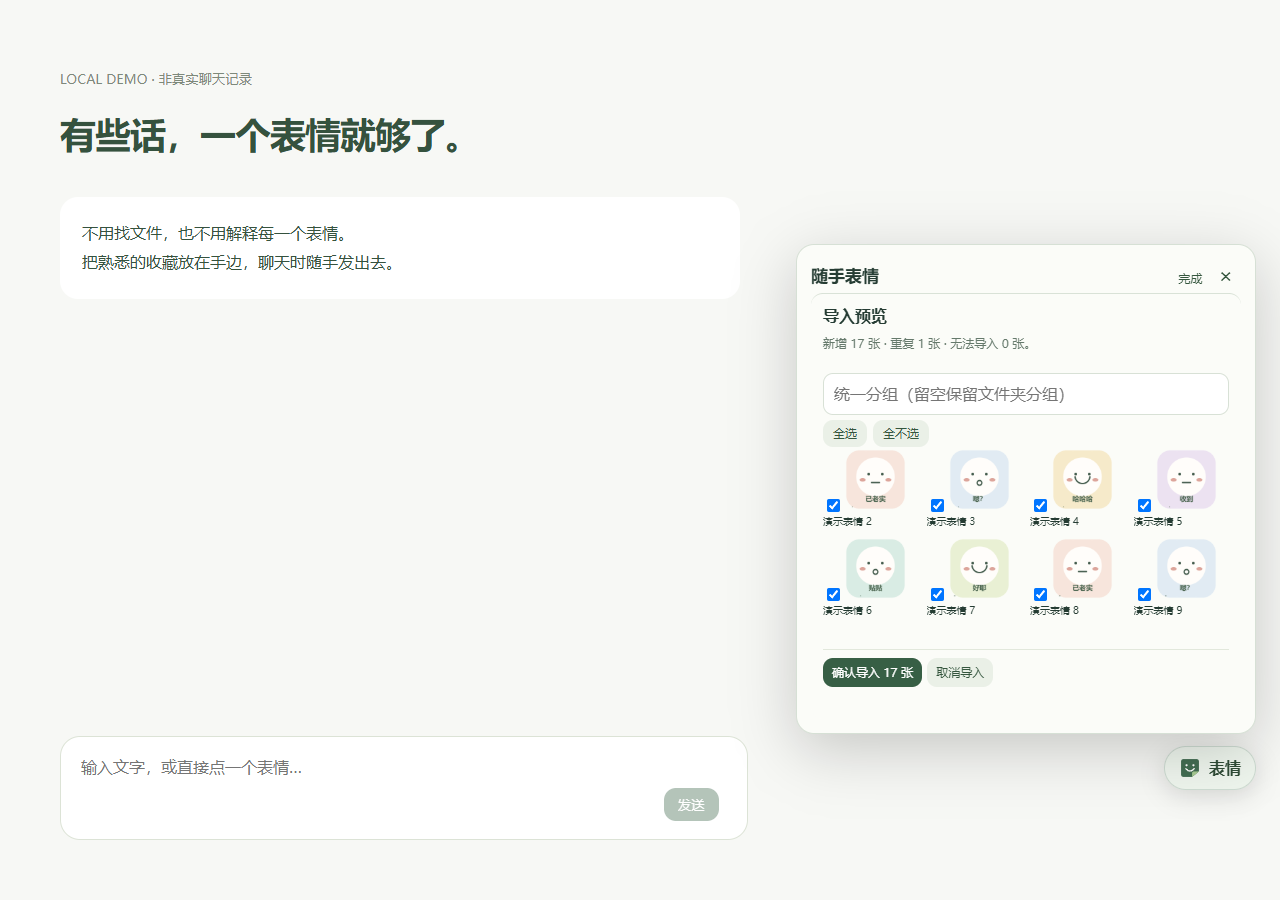
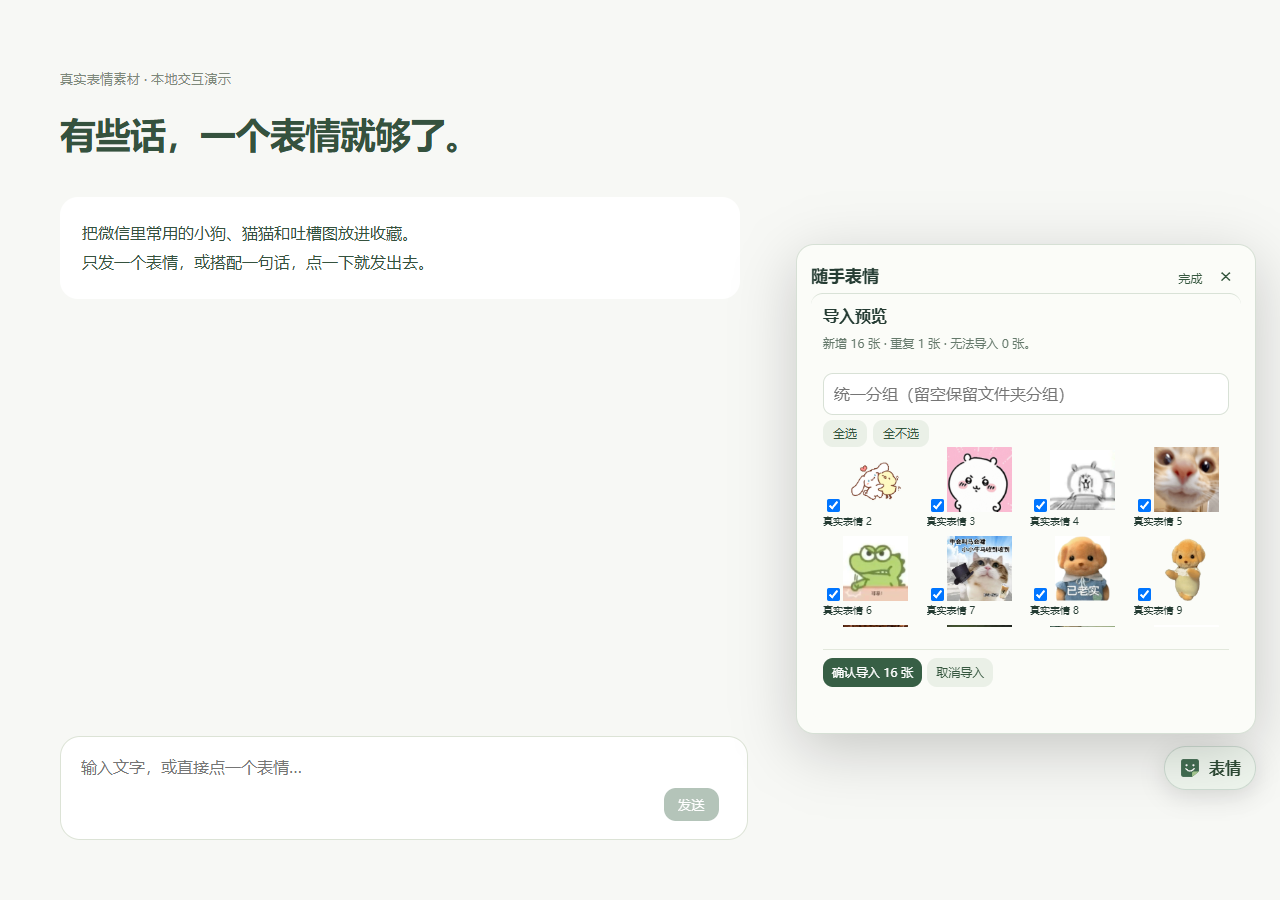
Replace demo screenshots with real personal sticker examples

Changed region(s): [[0.6562, 0.4978, 0.9688, 0.6844], [0.0625, 0.2489, 0.3438, 0.3111], [0.0312, 0.0622, 0.1875, 0.0933]]

diff --git a/README.md b/README.md
@@ -29,11 +29,15 @@
 
 先写文字，再点表情，原文字和图片一起发送。没有附加解释，也没有隐藏提示词。
 
+![只发表情的使用示例](docs/images/sticker-only.png)
+
+也可以一句话都不写，直接点一个「已老实」小狗。表情是聊天语气的补充，具体含义留给当下的上下文。
+
 ![批量导入预览](docs/images/import.png)
 
 一次选多张图片，或选择文件夹，把现有收藏搬进来。确认前可预览、勾选和去重。
 
-> 上面的真实聊天截图由作者提供；其余界面配图来自实际加载扩展的本地演示页面，素材为本项目原创示例，并非真实 AI 回复。扩展不预置这些示例表情。
+> 真实聊天截图由作者提供；其余界面配图是在隔离浏览器中实际加载扩展、导入作者的 17 张日常表情后拍摄的本地交互演示，并非真实 AI 回复。扩展不预置这些表情，也不随仓库分发表情原文件。
 
 ## 功能
 
@@ -136,4 +140,4 @@ npm test
 
 ## License
 
-[MIT](LICENSE)。项目源码、图标和原创演示素材采用 MIT。真实聊天截图仅用于展示使用效果，其中第三方表情素材不在本项目 MIT 授权范围内，其权利归原权利人所有；使用者自行导入的表情图片亦归原权利人所有。
+[MIT](LICENSE)。项目源码、图标和原创素材采用 MIT。README 中的聊天及界面截图仅用于展示使用效果，其中第三方表情素材不在本项目 MIT 授权范围内，其权利归原权利人所有；使用者自行导入的表情图片亦归原权利人所有。

diff --git a/docs/VALIDATION.md b/docs/VALIDATION.md
@@ -10,4 +10,6 @@
 
 真实使用：ChatGPT 有作者试用反馈；Muse 目前按观察到的网页结构实现基础适配，尚未建立完整的真实站点回归。网页变更、上传限制、动图播放和模型语境理解不能由本地测试保证。
 
-配图来自该演示环境。示例文字是测试输入，图片为原创演示资产，不是用户的真实聊天或 AI 回复。
+README 的收藏、导入、文字配图和纯表情截图来自该演示环境，使用作者提供的 17 张日常 GIF / JPEG 表情。全部导入成功；预先添加一张后再次导入，预览显示新增 16 张、重复 1 张。验证 15 + 2 张分页、固定面板尺寸、文字与 GIF 一起发送、纯图发送、自动收起和草稿变化保护，未发现页面运行错误。截图中的文字为测试输入，没有伪造 AI 回复。
+
+真实聊天截图由作者另行提供。私人原图和依赖本机目录的截图生成脚本不上传仓库；公开 smoke 测试仍采用原创生成图，方便任何人独立复现，不会覆盖真实素材配图，除非主动使用截图生成选项。
